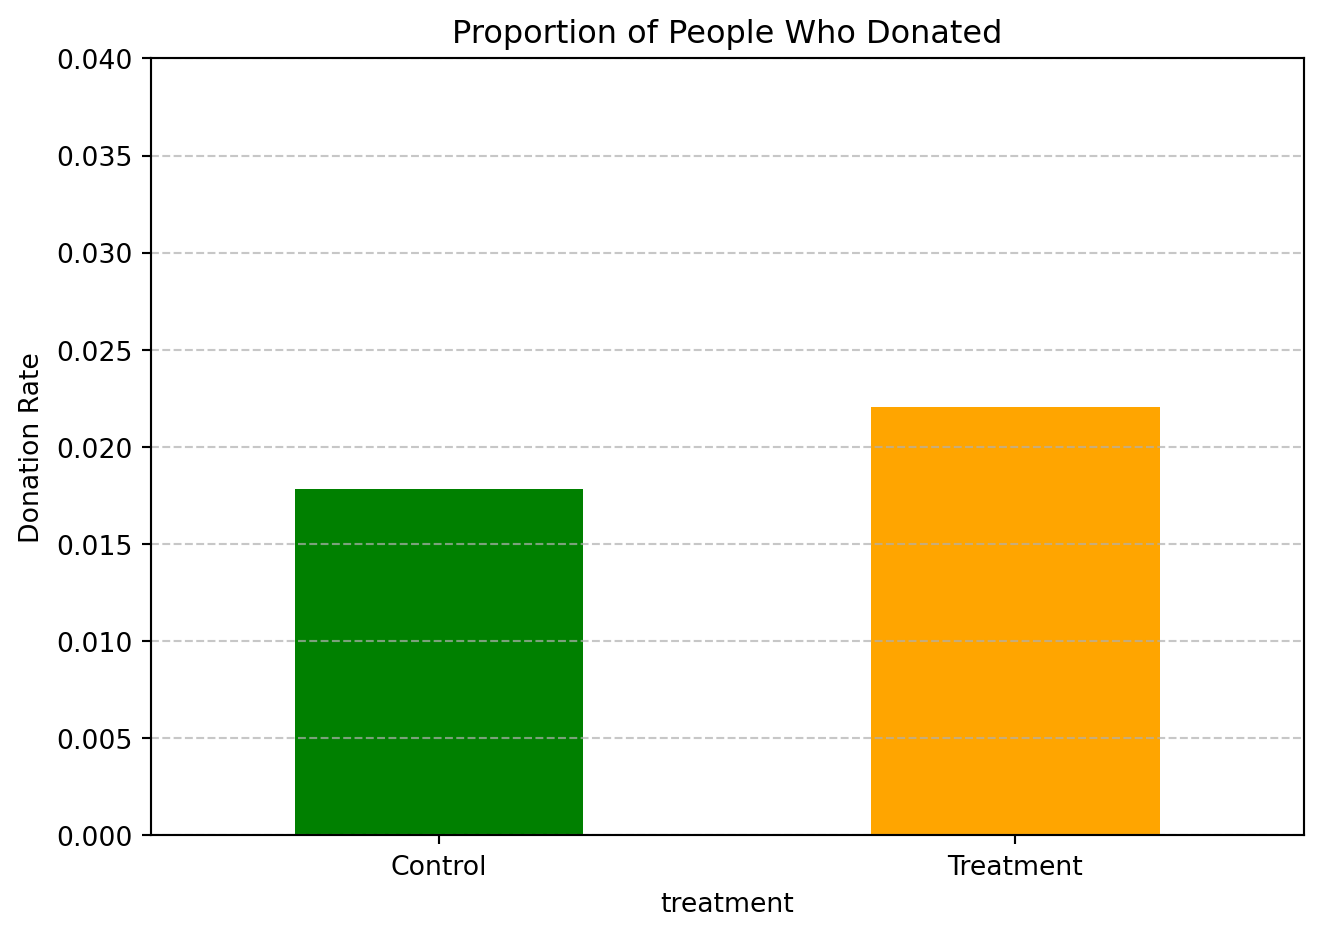
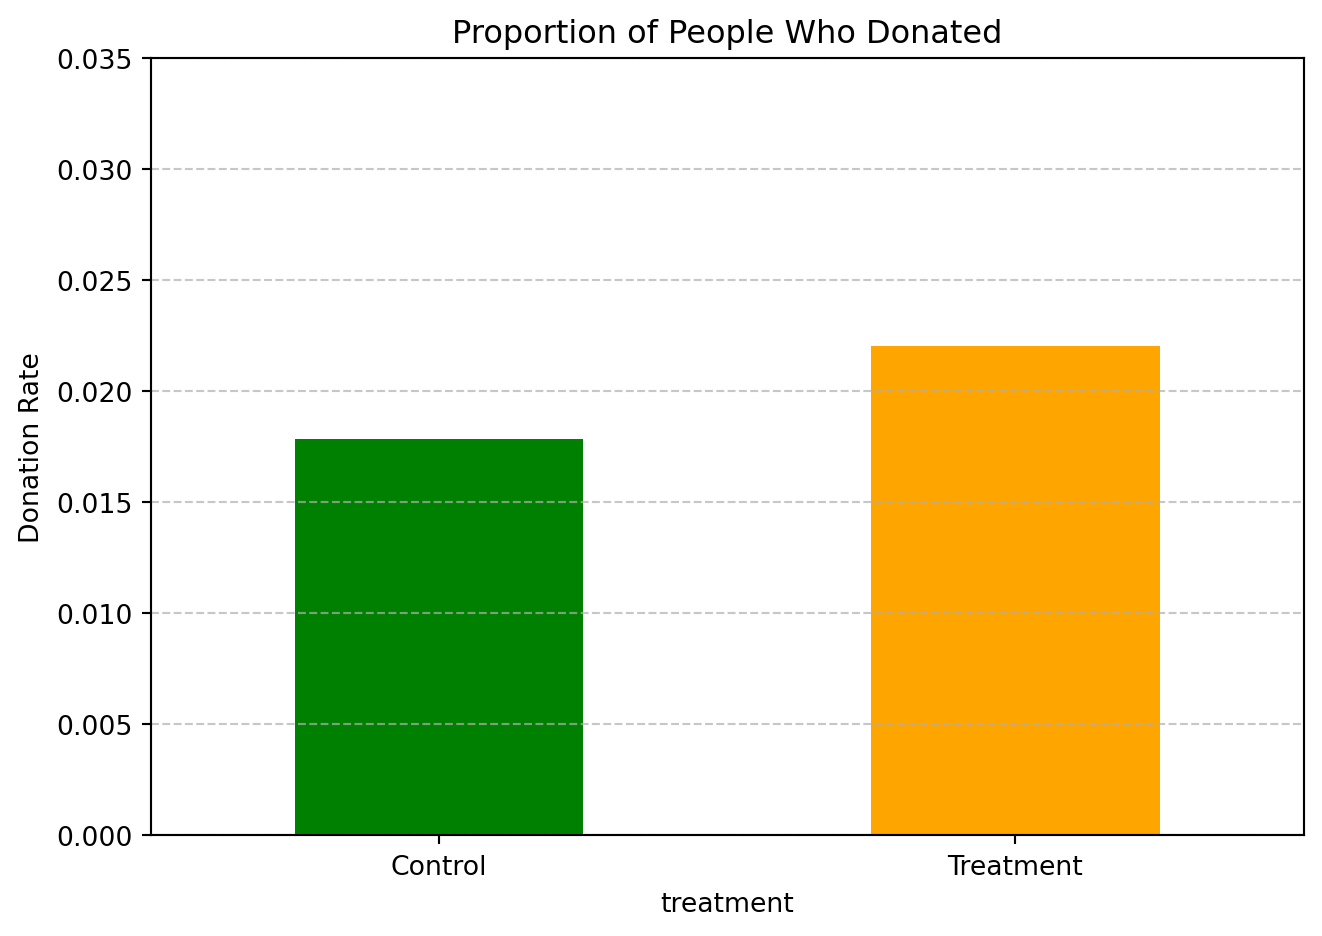
chart fix

diff --git a/docs/blogs/hw1/index.html b/docs/blogs/hw1/index.html
@@ -235,7 +235,7 @@ pre > code.sourceCode > span > a:first-child::before { text-decoration: underlin
 - Demographic indicators and prior donation history (e.g., years since first gift, total number of past donations, gender).
 - Geographic and political indicators such as whether the donor lived in a “red” or “blue” state during the 2004 presidential election, and the level of activity of the organization in that state.</code></pre>
 <p>The following Python code chunk loads the original dataset Dean Karlan used:</p>
-<div id="405421c9" class="cell" data-execution_count="1">
+<div id="1e63f884" class="cell" data-execution_count="1">
 <details class="code-fold">
 <summary>Show code</summary>
 <div class="sourceCode cell-code" id="cb2"><pre class="sourceCode python code-with-copy"><code class="sourceCode python"><span id="cb2-1"><a href="#cb2-1" aria-hidden="true" tabindex="-1"></a><span class="im">import</span> pandas <span class="im">as</span> pd</span>
@@ -246,7 +246,7 @@ pre > code.sourceCode > span > a:first-child::before { text-decoration: underlin
 <section id="data-overview" class="level3">
 <h3 class="anchored" data-anchor-id="data-overview">Data Overview</h3>
 <p>This following table provides an overview of all variables in the dataset. It includes each variable’s name, its data type (e.g., numeric or categorical), and the number of missing values.</p>
-<div id="605438ab" class="cell" data-execution_count="2">
+<div id="b46a76d2" class="cell" data-execution_count="2">
 <div class="cell-output cell-output-display" data-execution_count="2">
 <div>
 
@@ -577,7 +577,7 @@ pre > code.sourceCode > span > a:first-child::before { text-decoration: underlin
 <section id="variable-definitions" class="level3">
 <h3 class="anchored" data-anchor-id="variable-definitions">Variable Definitions</h3>
 <p>The summary statistics table below presents descriptive metrics for all numeric variables in this dataset, including count, mean, standard deviation, and range (min/max).</p>
-<div id="fcedf195" class="cell" data-execution_count="3">
+<div id="bf6f51bb" class="cell" data-execution_count="3">
 <div class="cell-output cell-output-display" data-execution_count="3">
 <div>
 
@@ -1368,7 +1368,7 @@ Variable Definitions
 <section id="balance-test" class="level3">
 <h3 class="anchored" data-anchor-id="balance-test">Balance Test</h3>
 <p>As an ad hoc test of the randomization mechanism, I provide a series of tests that compare aspects of the treatment and control groups to assess whether they are statistically significantly different from one another.</p>
-<div id="41f661fd" class="cell" data-execution_count="4">
+<div id="1326252c" class="cell" data-execution_count="4">
 <div class="cell-output cell-output-display" data-execution_count="4">
 <div>
 
@@ -1461,7 +1461,7 @@ Variable Definitions
 </div>
 </div>
 <p>This table replicates the balance check presented in Table 1 of Karlan &amp; List (2007), using a manual t-test formula to compare pre-treatment characteristics across the treatment and control groups. The variables cover donor behavior (e.g., months since last donation, prior contributions), demographics (e.g., gender, race, household size), and political/geographic indicators (e.g., red state/county, legal involvement of the organization). Across all tested variables, the t-statistics remain small (generally below ±2), and none of the differences reach conventional levels of statistical significance. This provides strong evidence that the treatment assignment was effectively randomized and groups are balanced on observable characteristics. This confirms the reliability of the experiment design and supports the validity of later comparisons on donation behavior.</p>
-<div id="530d7852" class="cell" data-execution_count="5">
+<div id="835309e3" class="cell" data-execution_count="5">
 <div class="cell-output cell-output-display" data-execution_count="5">
 <div>
 
@@ -1561,7 +1561,7 @@ Variable Definitions
 <section id="charitable-contribution-made" class="level3">
 <h3 class="anchored" data-anchor-id="charitable-contribution-made">Charitable Contribution Made</h3>
 <p>First, I analyze whether matched donations lead to an increased response rate of making a donation.</p>
-<div id="3d5c47b7" class="cell" data-execution_count="6">
+<div id="d07003f0" class="cell" data-execution_count="6">
 <div class="cell-output cell-output-display">
 <div>
 <figure class="figure">
@@ -1571,12 +1571,12 @@ Variable Definitions
 </div>
 </div>
 <p>This plot displays the proportion of individuals who made a charitable contribution in the control and treatment groups. The donation rate is noticeably higher in the treatment group, indicating that the presence of a matching donation offer likely increased the likelihood of giving. This supports the hypothesis that matched donations can serve as an effective behavioral nudge in charitable fundraising.</p>
-<div id="02b983f6" class="cell" data-execution_count="7">
+<div id="057eea01" class="cell" data-execution_count="7">
 <div class="cell-output cell-output-stdout">
 <pre><code>t-statistic: 3.2095, p-value: 0.0013</code></pre>
 </div>
 </div>
-<div id="dc1ff684" class="cell" data-execution_count="8">
+<div id="08c5584c" class="cell" data-execution_count="8">
 <div class="cell-output cell-output-display" data-execution_count="8">
 <div>
 
@@ -1612,7 +1612,7 @@ Variable Definitions
 </div>
 </div>
 <p>Both the t-test and linear regression show a statistically significant difference in donation behavior between the treatment and control groups. Individuals who received a letter mentioning a matching grant were more likely to donate than those who received a standard letter. This finding replicates Table 2a Panel A of Karlan &amp; List (2007), and supports the hypothesis that matched donations act as a strong psychological motivator. From a behavioral standpoint, it suggests that people are more inclined to give when their contributions feel amplified — they may view their gift as having a greater impact, which encourages them to take action. This simple intervention—adding a match offer—significantly influenced behavior even though the individuals in both groups received similar messages aside from that detail.</p>
-<div id="6015d723" class="cell" data-execution_count="9">
+<div id="45ace0aa" class="cell" data-execution_count="9">
 <div class="cell-output cell-output-display" data-execution_count="9">
 <div>
 
@@ -1652,7 +1652,7 @@ Variable Definitions
 <section id="differences-between-match-rates" class="level3">
 <h3 class="anchored" data-anchor-id="differences-between-match-rates">Differences between Match Rates</h3>
 <p>Next, I assess the effectiveness of different sizes of matched donations on the response rate.</p>
-<div id="4cc07682" class="cell" data-execution_count="10">
+<div id="eb08b0a0" class="cell" data-execution_count="10">
 <div class="cell-output cell-output-display" data-execution_count="10">
 <div>
 
@@ -1692,7 +1692,7 @@ Variable Definitions
 </div>
 </div>
 <p>The t-tests above examine whether increasing the match ratio (from 1:1 to 2:1 or 3:1) significantly affects the probability of donating. The results show that the differences in donation rates are not statistically significant** at conventional levels. This finding aligns with the authors’ comment on page 8 of Karlan &amp; List (2007), where they state that “the figures suggest that higher match ratios did not lead to significantly greater giving rates.” Despite intuitive expectations, offering a 2:1 or 3:1 match did not lead to more people donating compared to a 1:1 match. This suggests that the psychological impact of having any match available may be more important than the generosity of the multiplier itself.</p>
-<div id="12305113" class="cell" data-execution_count="11">
+<div id="cad561b7" class="cell" data-execution_count="11">
 <div class="cell-output cell-output-display" data-execution_count="11">
 <div>
 
@@ -1732,7 +1732,7 @@ Variable Definitions
 </div>
 </div>
 <p>This regression estimates the donation probability under different match ratios, using <code>ratio1</code> (1:1 match) as the baseline category. The intercept represents the average donation rate for the 1:1 group, while the coefficients for <code>ratio2</code> and <code>ratio3</code> represent the change in probability relative to that baseline. The results confirm that there are no statistically significant differences in donation rates when comparing 2:1 or 3:1 match ratios to the 1:1 ratio. These coefficients are close to zero and accompanied by large p-values, reinforcing the earlier t-test findings. In line with the authors’ interpretation, this suggests that increasing the match ratio beyond 1:1 does not further motivate giving** — the existence of a match alone may be the primary driver of behavioral change, rather than its size.</p>
-<div id="c2510254" class="cell" data-execution_count="12">
+<div id="bf1309e0" class="cell" data-execution_count="12">
 <div class="cell-output cell-output-display" data-execution_count="12">
 <div>
 
@@ -1768,12 +1768,12 @@ Variable Definitions
 <section id="size-of-charitable-contribution" class="level3">
 <h3 class="anchored" data-anchor-id="size-of-charitable-contribution">Size of Charitable Contribution</h3>
 <p>In this subsection, I analyze the effect of the size of matched donation on the size of the charitable contribution.</p>
-<div id="3edb601e" class="cell" data-execution_count="13">
+<div id="433ea580" class="cell" data-execution_count="13">
 <div class="cell-output cell-output-stdout">
 <pre><code>t-statistic: 1.9183, p-value: 0.0551</code></pre>
 </div>
 </div>
-<div id="f36270e3" class="cell" data-execution_count="14">
+<div id="75b8e6b9" class="cell" data-execution_count="14">
 <div class="cell-output cell-output-display" data-execution_count="14">
 <div>
 
@@ -1813,7 +1813,7 @@ Variable Definitions
 </div>
 </div>
 <p>This analysis tests whether the average donation amount differs between the treatment and control groups — regardless of whether someone donated or not (i.e., this includes all the zeros). Both the t-test and linear regression show that the mean donation amount is slightly higher in the treatment group, but the difference is small in magnitude and statistically weak. The low R-squared value also indicates that treatment status explains very little of the variance in donation amounts. This suggests that while matched donations may influence whether people give, they don’t strongly influence how much they give, at least when considering all individuals (including those who gave $0). To better understand donation behavior among actual donors, we’ll refine this analysis next by limiting it to individuals who did donate.</p>
-<div id="cec88cf1" class="cell" data-execution_count="15">
+<div id="fda439d2" class="cell" data-execution_count="15">
 <div class="cell-output cell-output-display" data-execution_count="15">
 <div>
 
@@ -1853,7 +1853,7 @@ Variable Definitions
 </div>
 </div>
 <p>By focusing only on those who actually donated, this regression estimates how much more (or less) people gave if they were in the treatment group compared to the control group. The estimated coefficient on <code>treatment</code> now reflects the difference in average gift size conditional on donating. The result shows that the treatment has very little effect on the amount donated among those who gave something — the coefficient is small and statistically insignificant. This finding supports the idea that the matching grant mainly affects the decision to donate, not the amount donated once that decision is made. In other words, treatment increases the extensive margin (whether to give), but not the intensive margin (how much to give). Regarding causal interpretation: since treatment was randomly assigned, and we’re conditioning on an outcome (<code>gave</code>), the estimate does not have a strict causal interpretation. It’s subject to selection bias — those who gave in treatment might be different in unobservable ways from those who gave in control. So we interpret this descriptively rather than causally.</p>
-<div id="42ea4548" class="cell" data-execution_count="16">
+<div id="d3ff4b77" class="cell" data-execution_count="16">
 <div class="cell-output cell-output-display">
 <div>
 <figure class="figure">
@@ -1870,7 +1870,7 @@ Variable Definitions
 <p>As a reminder of how the t-statistic “works,” in this section I use simulation to demonstrate the Law of Large Numbers and the Central Limit Theorem.</p>
 <p>Suppose the true distribution of respondents who do not get a charitable donation match is Bernoulli with probability p=0.018 that a donation is made.</p>
 <p>Further suppose that the true distribution of respondents who do get a charitable donation match of any size is Bernoulli with probability p=0.022 that a donation is made.</p>
-<div id="9e4ce374" class="cell" data-execution_count="17">
+<div id="85c0a9aa" class="cell" data-execution_count="17">
 <div class="cell-output cell-output-display">
 <div>
 <figure class="figure">
@@ -1883,7 +1883,7 @@ Variable Definitions
 <p>This visually demonstrates how small but real differences can become detectable with sufficient sample size and repeated sampling — a core insight from the Law of Large Numbers and Central Limit Theorem.</p>
 <section id="law-of-large-numbers" class="level3">
 <h3 class="anchored" data-anchor-id="law-of-large-numbers">Law of Large Numbers</h3>
-<div id="7ba55844" class="cell" data-execution_count="18">
+<div id="91105de7" class="cell" data-execution_count="18">
 <div class="cell-output cell-output-display">
 <div>
 <figure class="figure">
@@ -1896,11 +1896,11 @@ Variable Definitions
 </section>
 <section id="central-limit-theorem" class="level3">
 <h3 class="anchored" data-anchor-id="central-limit-theorem">Central Limit Theorem</h3>
-<div id="cef3e453" class="cell" data-execution_count="19">
+<div id="fdc89b10" class="cell" data-execution_count="19">
 <div class="cell-output cell-output-display">
 <div>
 <figure class="figure">
-<p><img src="index_files/figure-html/cell-20-output-1.png" width="1141" height="755" class="figure-img"></p>
+<p><img src="index_files/figure-html/cell-20-output-1.png" width="1139" height="755" class="figure-img"></p>
 </figure>
 </div>
 </div>
@@ -2568,7 +2568,7 @@ Variable Definitions
 <span id="cb5-214"><a href="#cb5-214" aria-hidden="true" tabindex="-1"></a>plt.title(<span class="st">"Proportion of People Who Donated"</span>)</span>
 <span id="cb5-215"><a href="#cb5-215" aria-hidden="true" tabindex="-1"></a>plt.ylabel(<span class="st">"Donation Rate"</span>)</span>
 <span id="cb5-216"><a href="#cb5-216" aria-hidden="true" tabindex="-1"></a>plt.xticks(rotation<span class="op">=</span><span class="dv">0</span>)</span>
-<span id="cb5-217"><a href="#cb5-217" aria-hidden="true" tabindex="-1"></a>plt.ylim(<span class="dv">0</span>, <span class="fl">0.04</span>)  </span>
+<span id="cb5-217"><a href="#cb5-217" aria-hidden="true" tabindex="-1"></a>plt.ylim(<span class="dv">0</span>, <span class="fl">0.035</span>)  </span>
 <span id="cb5-218"><a href="#cb5-218" aria-hidden="true" tabindex="-1"></a>plt.grid(axis<span class="op">=</span><span class="st">'y'</span>, linestyle<span class="op">=</span><span class="st">'--'</span>, alpha<span class="op">=</span><span class="fl">0.7</span>)</span>
 <span id="cb5-219"><a href="#cb5-219" aria-hidden="true" tabindex="-1"></a>plt.tight_layout()</span>
 <span id="cb5-220"><a href="#cb5-220" aria-hidden="true" tabindex="-1"></a>plt.show()</span>

diff --git a/docs/blogs.html b/docs/blogs.html
@@ -266,7 +266,7 @@ Apr 23, 2025
 </div>
 </div></a>
 </div>
-<div class="g-col-1" data-index="1" data-listing-date-sort="1745391600000" data-listing-file-modified-sort="1745476999728" data-listing-date-modified-sort="NaN" data-listing-reading-time-sort="32" data-listing-word-count-sort="6284">
+<div class="g-col-1" data-index="1" data-listing-date-sort="1745391600000" data-listing-file-modified-sort="1745477660774" data-listing-date-modified-sort="NaN" data-listing-reading-time-sort="32" data-listing-word-count-sort="6284">
 <a href="./blogs/hw1/index.html" class="quarto-grid-link">
 <div class="quarto-grid-item card h-100 card-left">
 <p class="card-img-top"><img src="blogs/hw1/index_files/figure-html/cell-7-output-1.png" style="height: 150px;"  class="thumbnail-image card-img"/></p>
